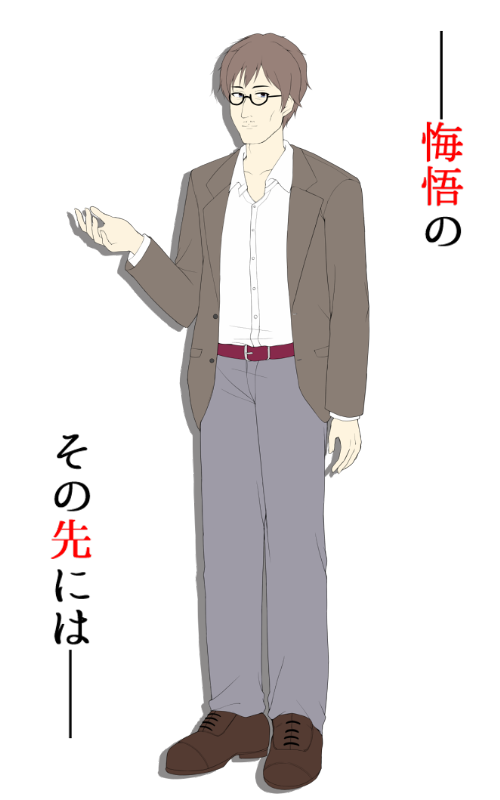
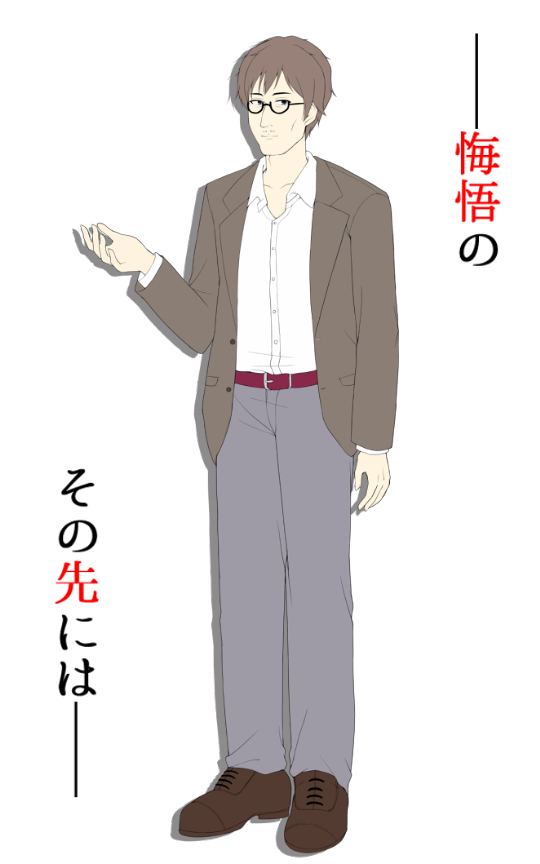
素材の解像度修正

Changed region(s): [[0.48, 0.0938, 0.54, 0.125], [0.87, 0.1875, 0.9, 0.2188], [0.84, 0.1562, 0.87, 0.1875]]

diff --git a/pages/mayukara/character/index.jsx b/pages/mayukara/character/index.jsx
@@ -329,7 +329,7 @@ export default function MayuChara() {
                                     </Col>
                                     <Col span={6} style={{ textAlign: "right" }}>
                                         <Row>
-                                            <div style={{ marginBottom: "2rem" }}>
+                                            <div style={{ position: "relative", bottom: "40px" }}>
                                                 {charaStand}
                                             </div>
                                             <span style={{ position: "relative", bottom: "12vh", left: "48vh", zIndex: "19194545", border: "2px solid rgba(50, 50, 50, .9)" }}>
